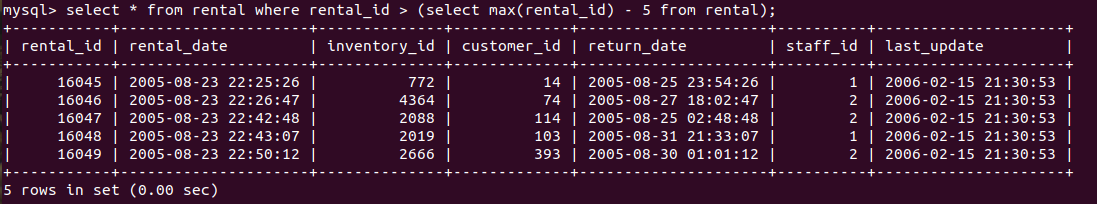
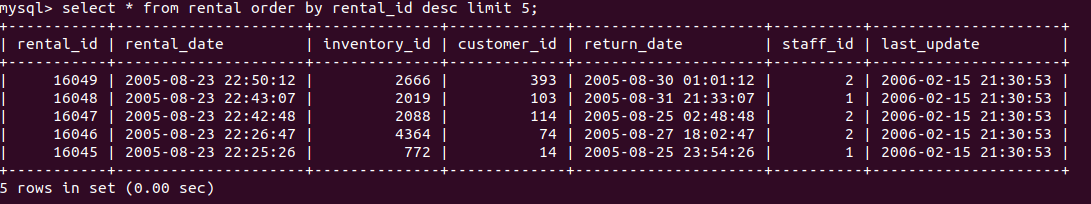
Fix task 3 solution

diff --git a/README.md b/README.md
@@ -49,10 +49,9 @@ order by payment_date;
 SQL-команда для выполнения задания 3
 
 select * 
-from 
- rental 
-where 
- rental_id > (select max(rental_id) - 5 from rental);
+from rental 
+order by rental_id desc 
+limit 5;
 
 ```
 
